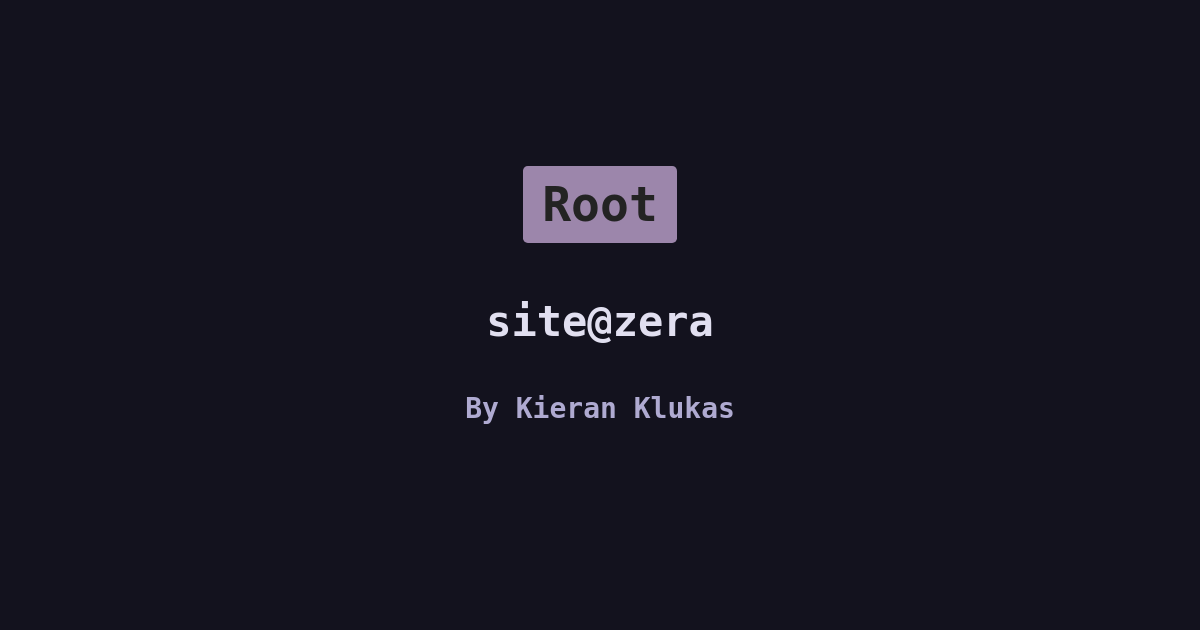
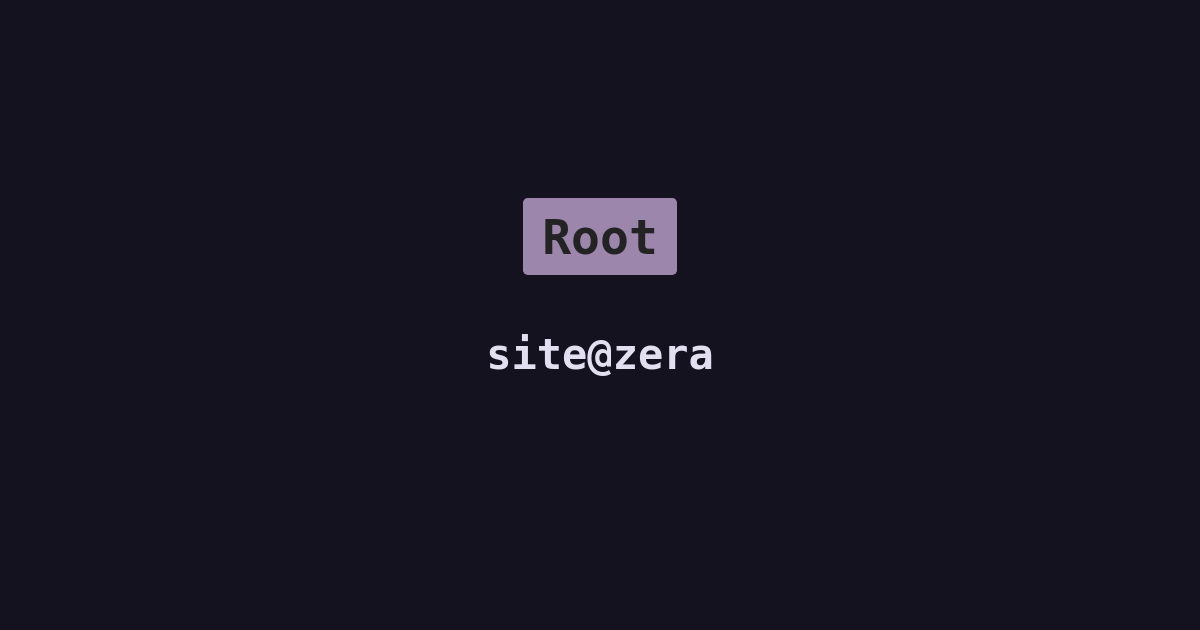
chore: only display author if a blog post

Changed region(s): [[0.4317, 0.2413, 0.5858, 0.4524], [0.4008, 0.4825, 0.6167, 0.6032], [0.37, 0.6333, 0.6167, 0.6635]]

diff --git a/tools/genOG.ts b/tools/genOG.ts
@@ -8,6 +8,7 @@ const browser = await puppeteer.launch();
 async function og(
 	postname: string,
 	type: string,
+	by: string | undefined,
 	outputPath: string,
 	width = 1200,
 	height = 630,
@@ -20,7 +21,8 @@ async function og(
 		template
 			.toString()
 			.replace("{{postname}}", postname)
-			.replace("{{type}}", type),
+			.replace("{{type}}", type)
+			.replace("{{by}}", by || ""),
 	);
 
 	await page.screenshot({ path: outputPath });
@@ -74,9 +76,11 @@ try {
 		const index = await Bun.file(`public/${file}`).text();
 		const title = index.match(/<title>(.*?)<\/title>/)[1];
 		let type = "Page";
+		let by: string | undefined;
 		switch (file.split("/")[0]) {
 			case "blog":
 				type = "Blog";
+				by = "<p>By Kieran Klukas</p>";
 				break;
 			case "verify":
 			case "pfp":
@@ -95,7 +99,7 @@ try {
 		}
 
 		console.log("Generating OG for", file, "title:", title, "with type:", type);
-		await og(title, type, `static/${file.replace("index.html", "og.png")}`);
+		await og(title, type, by, `static/${file.replace("index.html", "og.png")}`);
 	}
 } catch (e) {
 	console.error(e);

diff --git a/tools/og.html b/tools/og.html
@@ -105,7 +105,7 @@
     <div>
       <h1>{{type}}</h1>
       <h2>{{postname}}</h2>
-      <p>By Kieran Klukas</p>
+      {{by}}
     </div>
   </body>
 </html>
